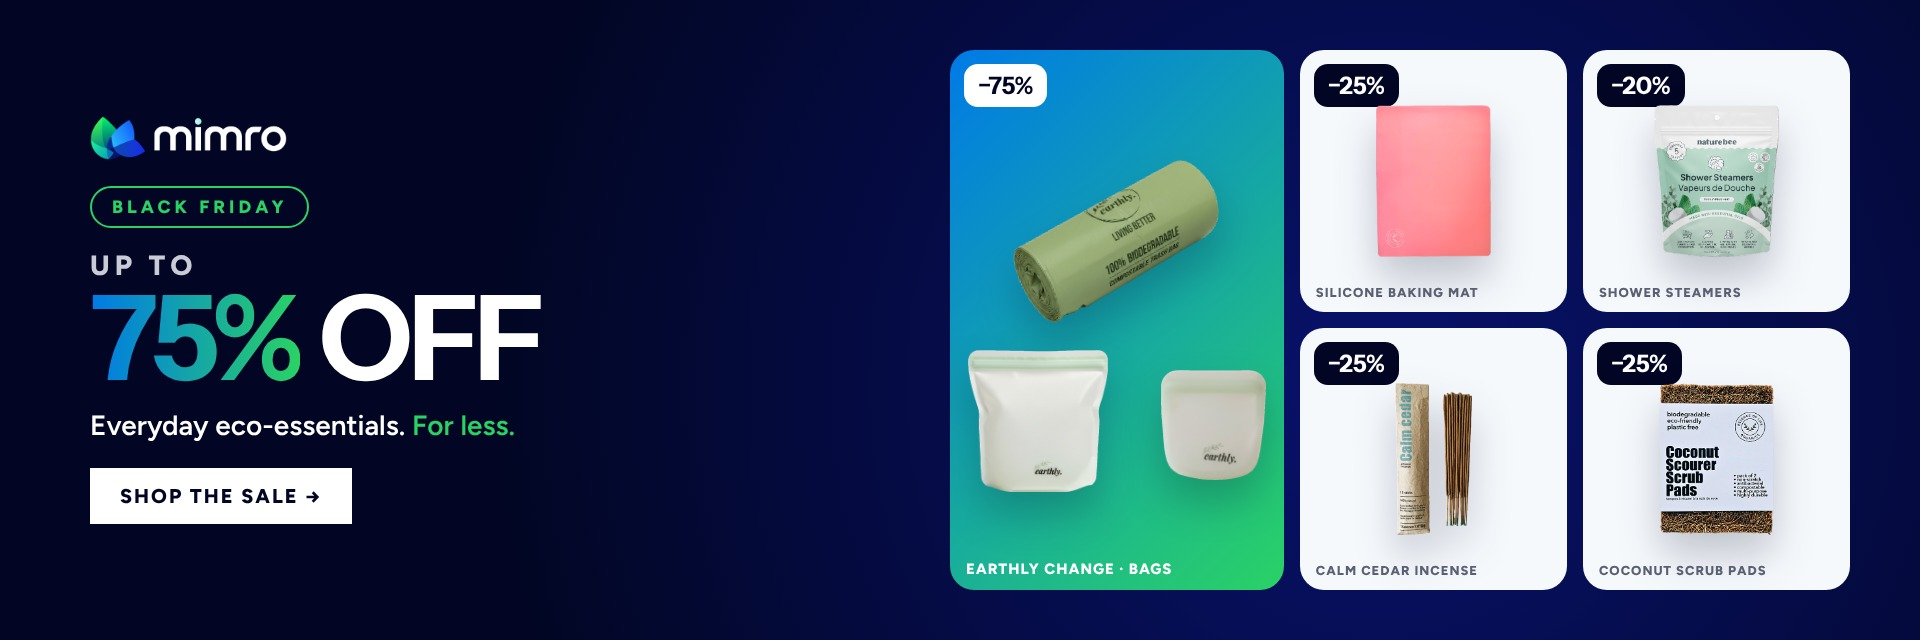
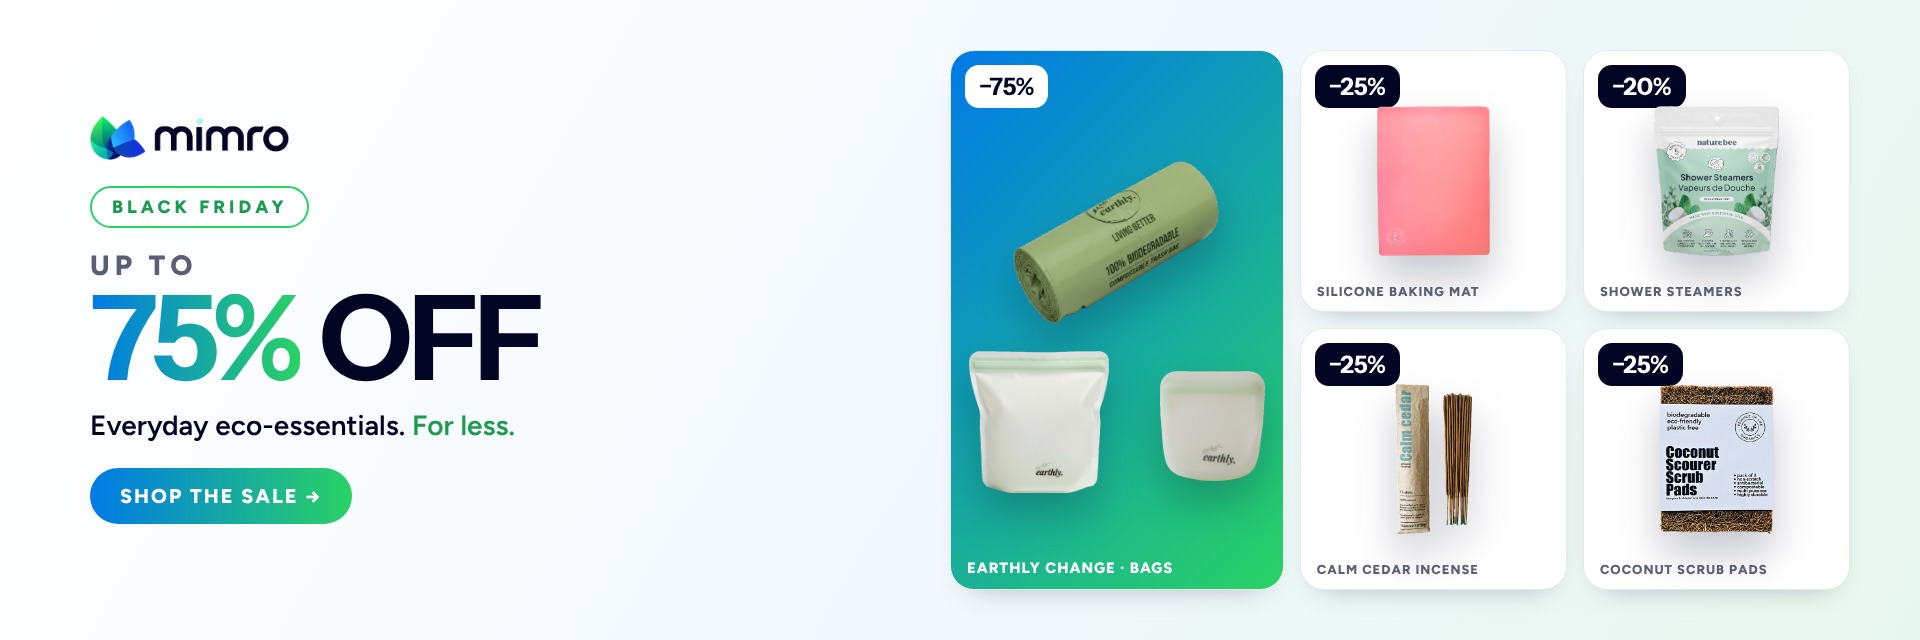
BB-Q4W6 billboards: light Mimro background instead of dark blue
Claude-Session: https://claude.ai/code/session_01NAdrPTam75Ss9kLmxSuENc

diff --git a/marketing/billboards/bb-q4w6-xmas-banner.html b/marketing/billboards/bb-q4w6-xmas-banner.html
@@ -1,11 +1,11 @@
 <!doctype html><html><head><meta charset="utf-8"><style>@font-face{font-family:IS;src:url(src/fonts/InstrumentSans.ttf)}
 @font-face{font-family:FG;src:url(src/fonts/Figtree.ttf)}
 *{box-sizing:border-box;margin:0;padding:0}
-body{font-family:FG,sans-serif;background:radial-gradient(circle at 72% 60%,#08126c 0%,#020624 62%);color:#fff;position:relative;overflow:hidden}
-.kick{display:inline-block;font-weight:800;letter-spacing:4px;text-transform:uppercase;color:#2ad265;border:2px solid #2ad265;border-radius:999px}
+body{font-family:FG,sans-serif;background:linear-gradient(120deg,#ffffff 0%,#f2f8fd 55%,#e8f7ee 100%);color:#020624;position:relative;overflow:hidden}
+.kick{display:inline-block;font-weight:800;letter-spacing:4px;text-transform:uppercase;color:#1a9b4d;border:2px solid #2ad265;border-radius:999px}
 .grad{background:linear-gradient(90deg,#007ae7,#2ad265);-webkit-background-clip:text;background-clip:text;color:transparent}
-.btn{display:inline-block;background:#fff;color:#020624;font-weight:800;letter-spacing:2px;text-transform:uppercase}
-.tile{position:relative;border-radius:30px;background:#f6f9fc;display:flex;align-items:center;justify-content:center;overflow:hidden}
+.btn{display:inline-block;background:linear-gradient(90deg,#007ae7,#2ad265);color:#fff;border-radius:999px;font-weight:800;letter-spacing:2px;text-transform:uppercase}
+.tile{position:relative;border-radius:30px;background:#fff;border:1.5px solid #e4ebe6;box-shadow:0 14px 30px -20px rgba(2,6,36,.35);display:flex;align-items:center;justify-content:center;overflow:hidden}
 .tile img{object-fit:contain;filter:drop-shadow(0 22px 20px rgba(2,6,36,.22))}
 .tile.hero{background:linear-gradient(135deg,#007ae7,#2ad265)}
 .chip{position:absolute;top:20px;left:20px;font-family:IS;font-weight:700;color:#fff;background:#020624;border-radius:14px}
@@ -18,12 +18,12 @@ html,body{width:1920px;height:640px}
 .left{position:absolute;left:90px;top:0;bottom:0;width:760px;display:flex;flex-direction:column;justify-content:center}
 .logo{height:44px;margin-bottom:26px;align-self:flex-start}
 .kick{font-size:18px;padding:8px 20px;margin-bottom:20px;align-self:flex-start}
-.upto{font-size:28px;font-weight:800;letter-spacing:5px;color:#c9ccd6}
+.upto{font-size:28px;font-weight:800;letter-spacing:5px;color:#5a5f73}
 .big{font-family:IS;font-weight:700;font-size:118px;line-height:.95;letter-spacing:-4px;white-space:nowrap}
-.sub{font-size:28px;font-weight:600;margin-top:14px}
+.sub{font-size:28px;font-weight:600;margin-top:14px;color:#020624}
 .btn{margin-top:26px;align-self:flex-start;font-size:20px;padding:16px 30px}
 .grid{position:absolute;right:70px;top:50px;width:900px;height:540px;display:grid;grid-template-columns:1.25fr 1fr 1fr;grid-template-rows:1fr 1fr;gap:16px}
 .hero{grid-row:span 2}
 .tile{border-radius:24px}.chip{font-size:24px;padding:7px 14px;top:14px;left:14px}.lbl{font-size:13px;left:16px;bottom:12px}.hero .lbl{font-size:15px}
 .t img{max-width:68%;max-height:58%}
-</style></head><body><div class="left"><img class="logo" src="src/logo_white.png"><div class="kick">Christmas gifts</div><div class="upto">UP TO</div><div class="big"><span class="grad">25%</span> OFF</div><div class="sub">Eco gifts they’ll actually use. <span style="color:#2ad265">Wrapped in less.</span></div><div class="btn">Shop the sale →</div></div><div class="grid"><div class="tile hero"><span class="chip">−20%</span><img src="src/beeswax.png" style="max-width:78%;max-height:70%"><span class="lbl">Nature Bee · Beeswax Wraps</span></div><div class="tile t"><span class="chip">−20%</span><img src="src/steamers.png"><span class="lbl">Shower Steamers</span></div><div class="tile t"><span class="chip">−25%</span><img src="src/incense.png"><span class="lbl">Calm Cedar Incense</span></div><div class="tile t"><span class="chip">−25%</span><img src="src/lotionbar.png"><span class="lbl">Solid Lotion Bar</span></div><div class="tile t"><span class="chip">−25%</span><img src="src/loui.png"><span class="lbl">Loui Toilet Drops</span></div></div></body></html>
+</style></head><body><div class="left"><img class="logo" src="src/logo.png"><div class="kick">Christmas gifts</div><div class="upto">UP TO</div><div class="big"><span class="grad">25%</span> OFF</div><div class="sub">Eco gifts they’ll actually use. <span style="color:#1a9b4d">Wrapped in less.</span></div><div class="btn">Shop the sale →</div></div><div class="grid"><div class="tile hero"><span class="chip">−20%</span><img src="src/beeswax.png" style="max-width:78%;max-height:70%"><span class="lbl">Nature Bee · Beeswax Wraps</span></div><div class="tile t"><span class="chip">−20%</span><img src="src/steamers.png"><span class="lbl">Shower Steamers</span></div><div class="tile t"><span class="chip">−25%</span><img src="src/incense.png"><span class="lbl">Calm Cedar Incense</span></div><div class="tile t"><span class="chip">−25%</span><img src="src/lotionbar.png"><span class="lbl">Solid Lotion Bar</span></div><div class="tile t"><span class="chip">−25%</span><img src="src/loui.png"><span class="lbl">Loui Toilet Drops</span></div></div></body></html>

diff --git a/marketing/billboards/bb-q4w6-bf-banner.html b/marketing/billboards/bb-q4w6-bf-banner.html
@@ -1,11 +1,11 @@
 <!doctype html><html><head><meta charset="utf-8"><style>@font-face{font-family:IS;src:url(src/fonts/InstrumentSans.ttf)}
 @font-face{font-family:FG;src:url(src/fonts/Figtree.ttf)}
 *{box-sizing:border-box;margin:0;padding:0}
-body{font-family:FG,sans-serif;background:radial-gradient(circle at 72% 60%,#08126c 0%,#020624 62%);color:#fff;position:relative;overflow:hidden}
-.kick{display:inline-block;font-weight:800;letter-spacing:4px;text-transform:uppercase;color:#2ad265;border:2px solid #2ad265;border-radius:999px}
+body{font-family:FG,sans-serif;background:linear-gradient(120deg,#ffffff 0%,#f2f8fd 55%,#e8f7ee 100%);color:#020624;position:relative;overflow:hidden}
+.kick{display:inline-block;font-weight:800;letter-spacing:4px;text-transform:uppercase;color:#1a9b4d;border:2px solid #2ad265;border-radius:999px}
 .grad{background:linear-gradient(90deg,#007ae7,#2ad265);-webkit-background-clip:text;background-clip:text;color:transparent}
-.btn{display:inline-block;background:#fff;color:#020624;font-weight:800;letter-spacing:2px;text-transform:uppercase}
-.tile{position:relative;border-radius:30px;background:#f6f9fc;display:flex;align-items:center;justify-content:center;overflow:hidden}
+.btn{display:inline-block;background:linear-gradient(90deg,#007ae7,#2ad265);color:#fff;border-radius:999px;font-weight:800;letter-spacing:2px;text-transform:uppercase}
+.tile{position:relative;border-radius:30px;background:#fff;border:1.5px solid #e4ebe6;box-shadow:0 14px 30px -20px rgba(2,6,36,.35);display:flex;align-items:center;justify-content:center;overflow:hidden}
 .tile img{object-fit:contain;filter:drop-shadow(0 22px 20px rgba(2,6,36,.22))}
 .tile.hero{background:linear-gradient(135deg,#007ae7,#2ad265)}
 .chip{position:absolute;top:20px;left:20px;font-family:IS;font-weight:700;color:#fff;background:#020624;border-radius:14px}
@@ -18,15 +18,15 @@ html,body{width:1920px;height:640px}
 .left{position:absolute;left:90px;top:0;bottom:0;width:760px;display:flex;flex-direction:column;justify-content:center}
 .logo{height:44px;margin-bottom:26px;align-self:flex-start}
 .kick{font-size:18px;padding:8px 20px;margin-bottom:20px;align-self:flex-start}
-.upto{font-size:28px;font-weight:800;letter-spacing:5px;color:#c9ccd6}
+.upto{font-size:28px;font-weight:800;letter-spacing:5px;color:#5a5f73}
 .big{font-family:IS;font-weight:700;font-size:118px;line-height:.95;letter-spacing:-4px;white-space:nowrap}
-.sub{font-size:28px;font-weight:600;margin-top:14px}
+.sub{font-size:28px;font-weight:600;margin-top:14px;color:#020624}
 .btn{margin-top:26px;align-self:flex-start;font-size:20px;padding:16px 30px}
 .grid{position:absolute;right:70px;top:50px;width:900px;height:540px;display:grid;grid-template-columns:1.25fr 1fr 1fr;grid-template-rows:1fr 1fr;gap:16px}
 .hero{grid-row:span 2}
 .tile{border-radius:24px}.chip{font-size:24px;padding:7px 14px;top:14px;left:14px}.lbl{font-size:13px;left:16px;bottom:12px}.hero .lbl{font-size:15px}
 .t img{max-width:68%;max-height:58%}
-</style></head><body><div class="left"><img class="logo" src="src/logo_white.png"><div class="kick">Black Friday</div><div class="upto">UP TO</div><div class="big"><span class="grad">75%</span> OFF</div><div class="sub">Everyday eco-essentials. <span style="color:#2ad265">For less.</span></div><div class="btn">Shop the sale →</div></div><div class="grid"><div class="tile hero"><span class="chip">−75%</span>
+</style></head><body><div class="left"><img class="logo" src="src/logo.png"><div class="kick">Black Friday</div><div class="upto">UP TO</div><div class="big"><span class="grad">75%</span> OFF</div><div class="sub">Everyday eco-essentials. <span style="color:#1a9b4d">For less.</span></div><div class="btn">Shop the sale →</div></div><div class="grid"><div class="tile hero"><span class="chip">−75%</span>
 <img src="src/ec_garbage.png" style="position:absolute;width:210px;left:50%;margin-left:-105px;top:120px;transform:rotate(-8deg)">
 <img src="src/ec_large.png" style="position:absolute;width:140px;left:18px;top:300px">
 <img src="src/ec_small.png" style="position:absolute;width:105px;right:18px;top:320px">

diff --git a/marketing/billboards/bb-q4w6-bf-promo.html b/marketing/billboards/bb-q4w6-bf-promo.html
@@ -1,11 +1,11 @@
 <!doctype html><html><head><meta charset="utf-8"><style>@font-face{font-family:IS;src:url(src/fonts/InstrumentSans.ttf)}
 @font-face{font-family:FG;src:url(src/fonts/Figtree.ttf)}
 *{box-sizing:border-box;margin:0;padding:0}
-body{font-family:FG,sans-serif;background:radial-gradient(circle at 72% 60%,#08126c 0%,#020624 62%);color:#fff;position:relative;overflow:hidden}
-.kick{display:inline-block;font-weight:800;letter-spacing:4px;text-transform:uppercase;color:#2ad265;border:2px solid #2ad265;border-radius:999px}
+body{font-family:FG,sans-serif;background:linear-gradient(120deg,#ffffff 0%,#f2f8fd 55%,#e8f7ee 100%);color:#020624;position:relative;overflow:hidden}
+.kick{display:inline-block;font-weight:800;letter-spacing:4px;text-transform:uppercase;color:#1a9b4d;border:2px solid #2ad265;border-radius:999px}
 .grad{background:linear-gradient(90deg,#007ae7,#2ad265);-webkit-background-clip:text;background-clip:text;color:transparent}
-.btn{display:inline-block;background:#fff;color:#020624;font-weight:800;letter-spacing:2px;text-transform:uppercase}
-.tile{position:relative;border-radius:30px;background:#f6f9fc;display:flex;align-items:center;justify-content:center;overflow:hidden}
+.btn{display:inline-block;background:linear-gradient(90deg,#007ae7,#2ad265);color:#fff;border-radius:999px;font-weight:800;letter-spacing:2px;text-transform:uppercase}
+.tile{position:relative;border-radius:30px;background:#fff;border:1.5px solid #e4ebe6;box-shadow:0 14px 30px -20px rgba(2,6,36,.35);display:flex;align-items:center;justify-content:center;overflow:hidden}
 .tile img{object-fit:contain;filter:drop-shadow(0 22px 20px rgba(2,6,36,.22))}
 .tile.hero{background:linear-gradient(135deg,#007ae7,#2ad265)}
 .chip{position:absolute;top:20px;left:20px;font-family:IS;font-weight:700;color:#fff;background:#020624;border-radius:14px}
@@ -18,7 +18,7 @@ html,body{width:1100px;height:400px}
 .l{position:absolute;left:50px;top:0;bottom:0;width:470px;display:flex;flex-direction:column;justify-content:center}
 .kick{font-size:14px;padding:6px 14px;align-self:flex-start;margin-bottom:14px}
 .ttl{font-family:IS;font-weight:700;font-size:72px;line-height:.95;letter-spacing:-2px}
-.s{font-size:20px;color:#c9ccd6;margin-top:10px}
+.s{font-size:20px;color:#5a5f73;margin-top:10px}
 .btn{margin-top:18px;align-self:flex-start;font-size:15px;padding:12px 22px}
 .r{position:absolute;right:30px;top:30px;width:520px;height:340px;display:grid;grid-template-columns:repeat(3,1fr);gap:12px}
 .tile{border-radius:20px}.chip{font-size:20px;padding:5px 11px;top:10px;left:10px}.lbl{font-size:11px;left:12px;bottom:10px}.t img{max-width:70%;max-height:55%}

diff --git a/marketing/billboards/bb-q4w6-xmas-promo.html b/marketing/billboards/bb-q4w6-xmas-promo.html
@@ -1,11 +1,11 @@
 <!doctype html><html><head><meta charset="utf-8"><style>@font-face{font-family:IS;src:url(src/fonts/InstrumentSans.ttf)}
 @font-face{font-family:FG;src:url(src/fonts/Figtree.ttf)}
 *{box-sizing:border-box;margin:0;padding:0}
-body{font-family:FG,sans-serif;background:radial-gradient(circle at 72% 60%,#08126c 0%,#020624 62%);color:#fff;position:relative;overflow:hidden}
-.kick{display:inline-block;font-weight:800;letter-spacing:4px;text-transform:uppercase;color:#2ad265;border:2px solid #2ad265;border-radius:999px}
+body{font-family:FG,sans-serif;background:linear-gradient(120deg,#ffffff 0%,#f2f8fd 55%,#e8f7ee 100%);color:#020624;position:relative;overflow:hidden}
+.kick{display:inline-block;font-weight:800;letter-spacing:4px;text-transform:uppercase;color:#1a9b4d;border:2px solid #2ad265;border-radius:999px}
 .grad{background:linear-gradient(90deg,#007ae7,#2ad265);-webkit-background-clip:text;background-clip:text;color:transparent}
-.btn{display:inline-block;background:#fff;color:#020624;font-weight:800;letter-spacing:2px;text-transform:uppercase}
-.tile{position:relative;border-radius:30px;background:#f6f9fc;display:flex;align-items:center;justify-content:center;overflow:hidden}
+.btn{display:inline-block;background:linear-gradient(90deg,#007ae7,#2ad265);color:#fff;border-radius:999px;font-weight:800;letter-spacing:2px;text-transform:uppercase}
+.tile{position:relative;border-radius:30px;background:#fff;border:1.5px solid #e4ebe6;box-shadow:0 14px 30px -20px rgba(2,6,36,.35);display:flex;align-items:center;justify-content:center;overflow:hidden}
 .tile img{object-fit:contain;filter:drop-shadow(0 22px 20px rgba(2,6,36,.22))}
 .tile.hero{background:linear-gradient(135deg,#007ae7,#2ad265)}
 .chip{position:absolute;top:20px;left:20px;font-family:IS;font-weight:700;color:#fff;background:#020624;border-radius:14px}
@@ -18,7 +18,7 @@ html,body{width:1100px;height:400px}
 .l{position:absolute;left:50px;top:0;bottom:0;width:470px;display:flex;flex-direction:column;justify-content:center}
 .kick{font-size:14px;padding:6px 14px;align-self:flex-start;margin-bottom:14px}
 .ttl{font-family:IS;font-weight:700;font-size:72px;line-height:.95;letter-spacing:-2px}
-.s{font-size:20px;color:#c9ccd6;margin-top:10px}
+.s{font-size:20px;color:#5a5f73;margin-top:10px}
 .btn{margin-top:18px;align-self:flex-start;font-size:15px;padding:12px 22px}
 .r{position:absolute;right:30px;top:30px;width:520px;height:340px;display:grid;grid-template-columns:repeat(3,1fr);gap:12px}
 .tile{border-radius:20px}.chip{font-size:20px;padding:5px 11px;top:10px;left:10px}.lbl{font-size:11px;left:12px;bottom:10px}.t img{max-width:70%;max-height:55%}
